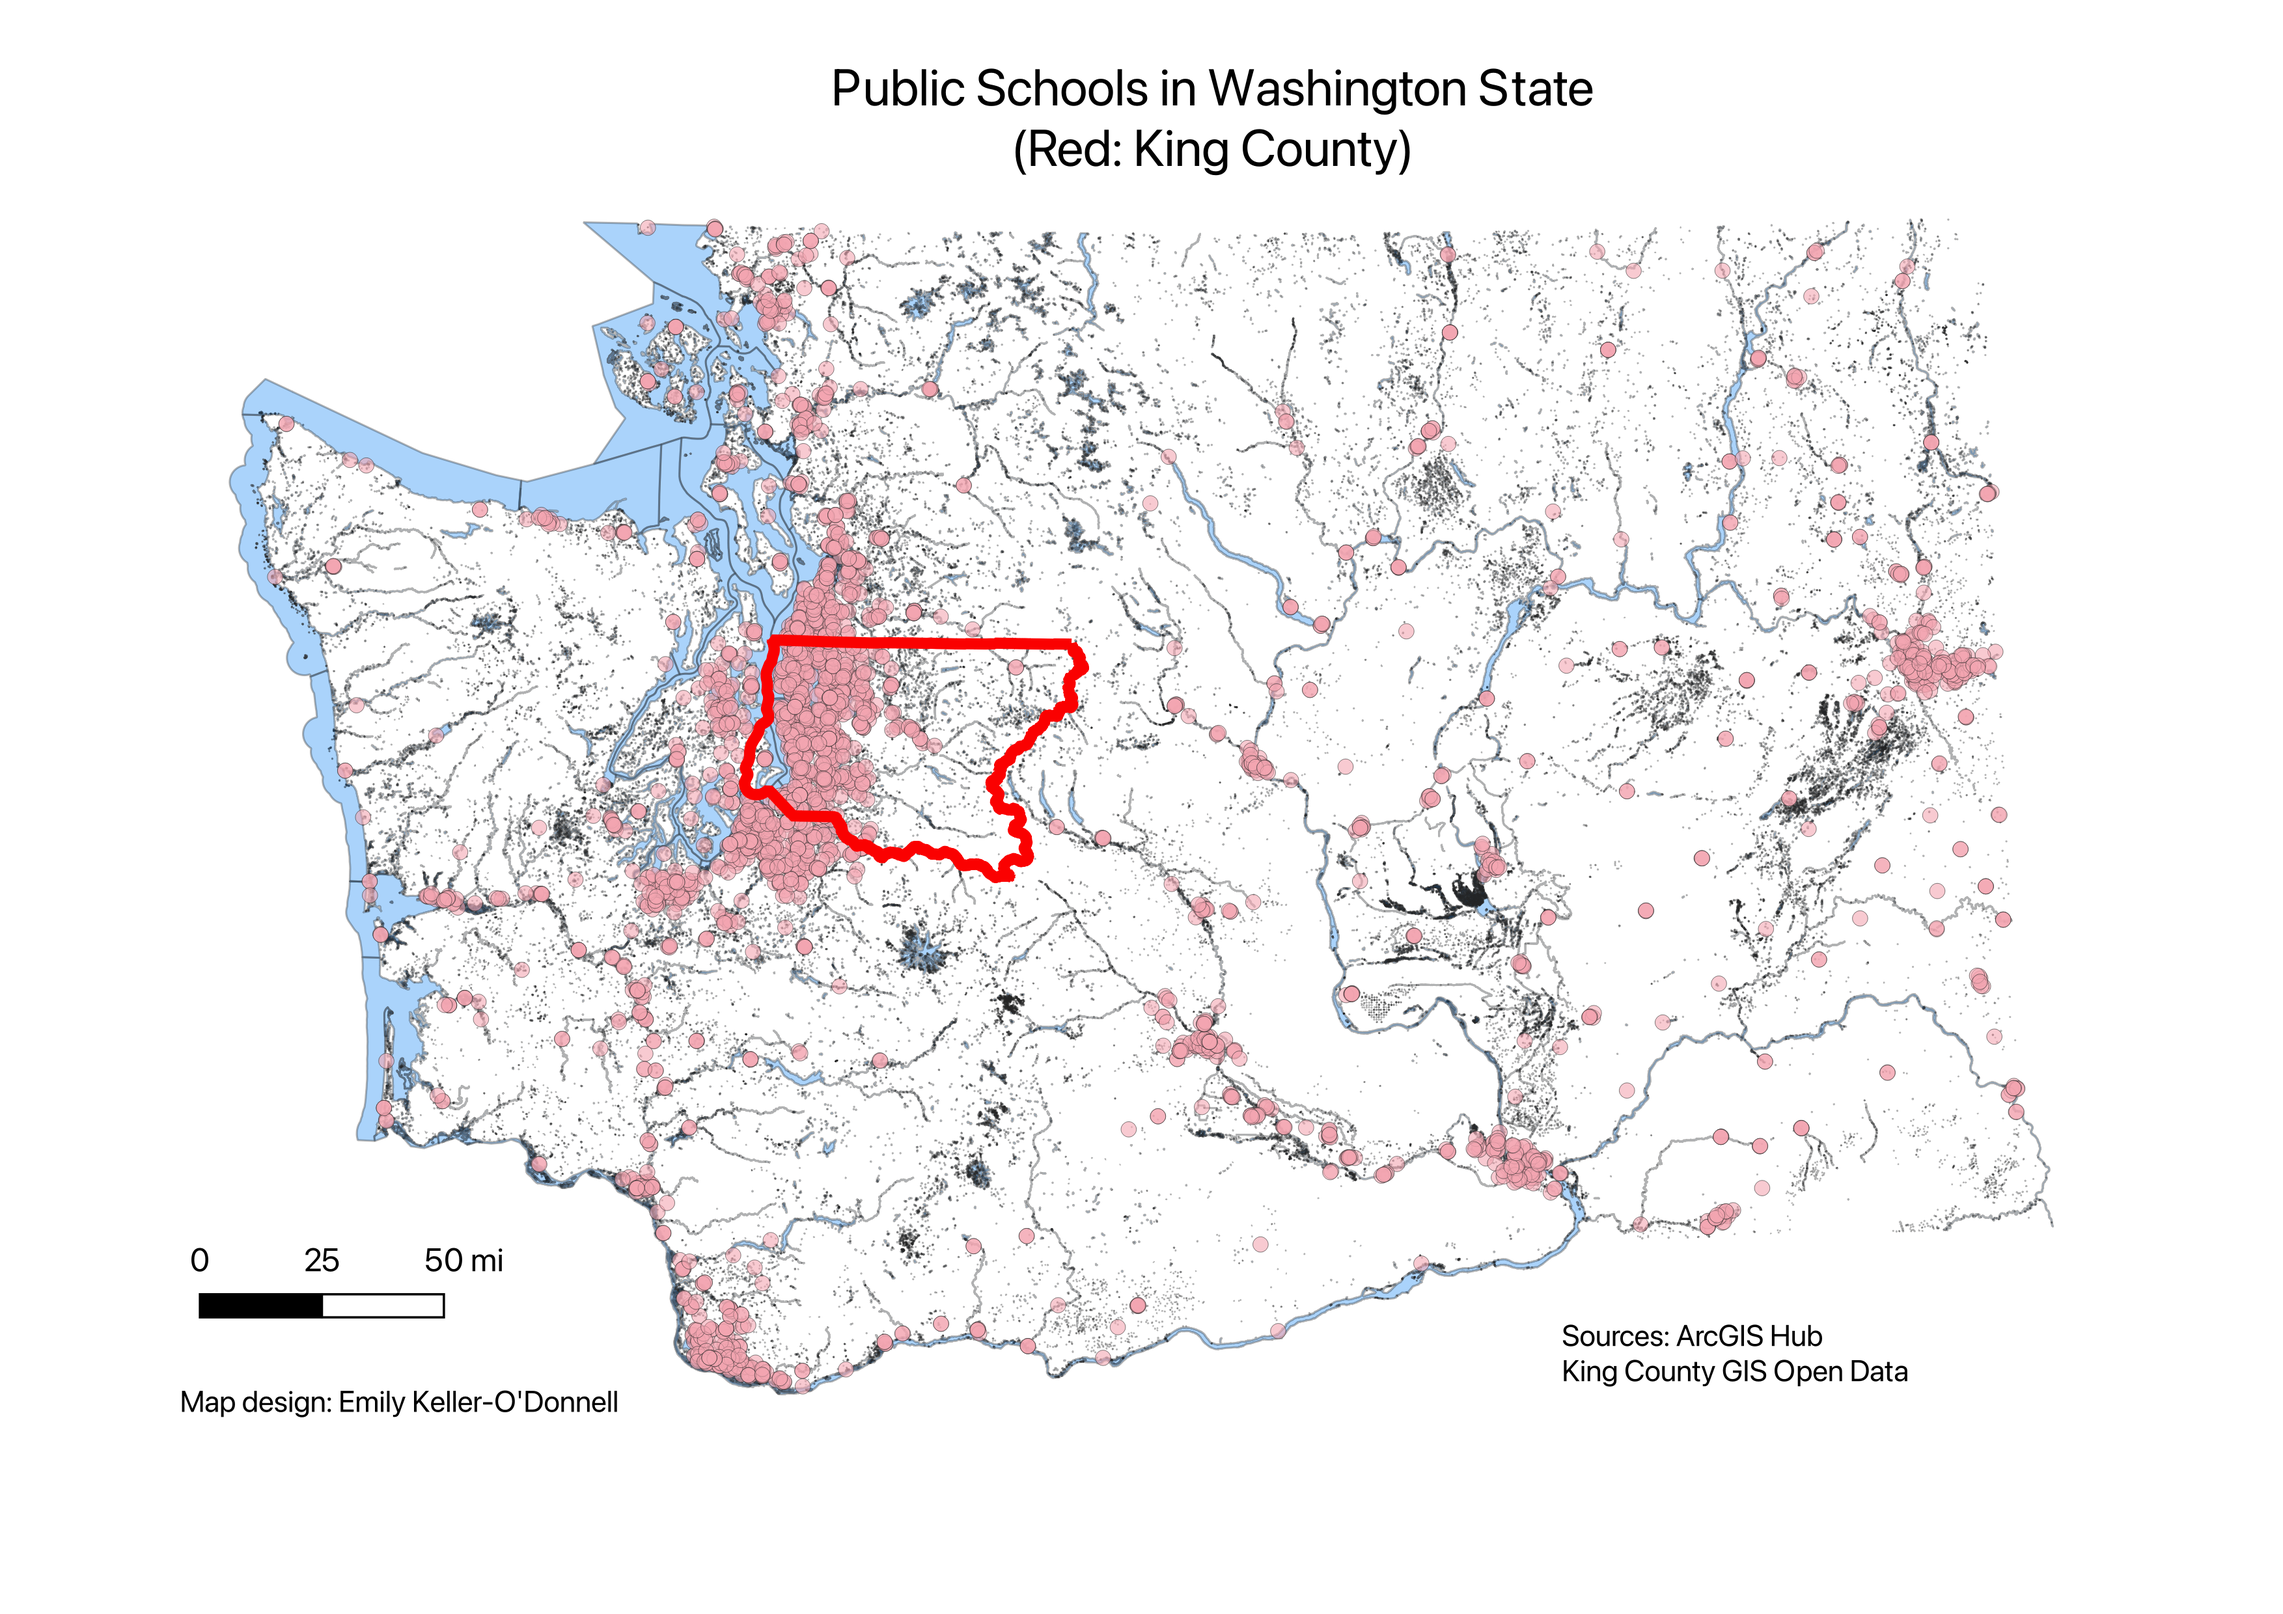
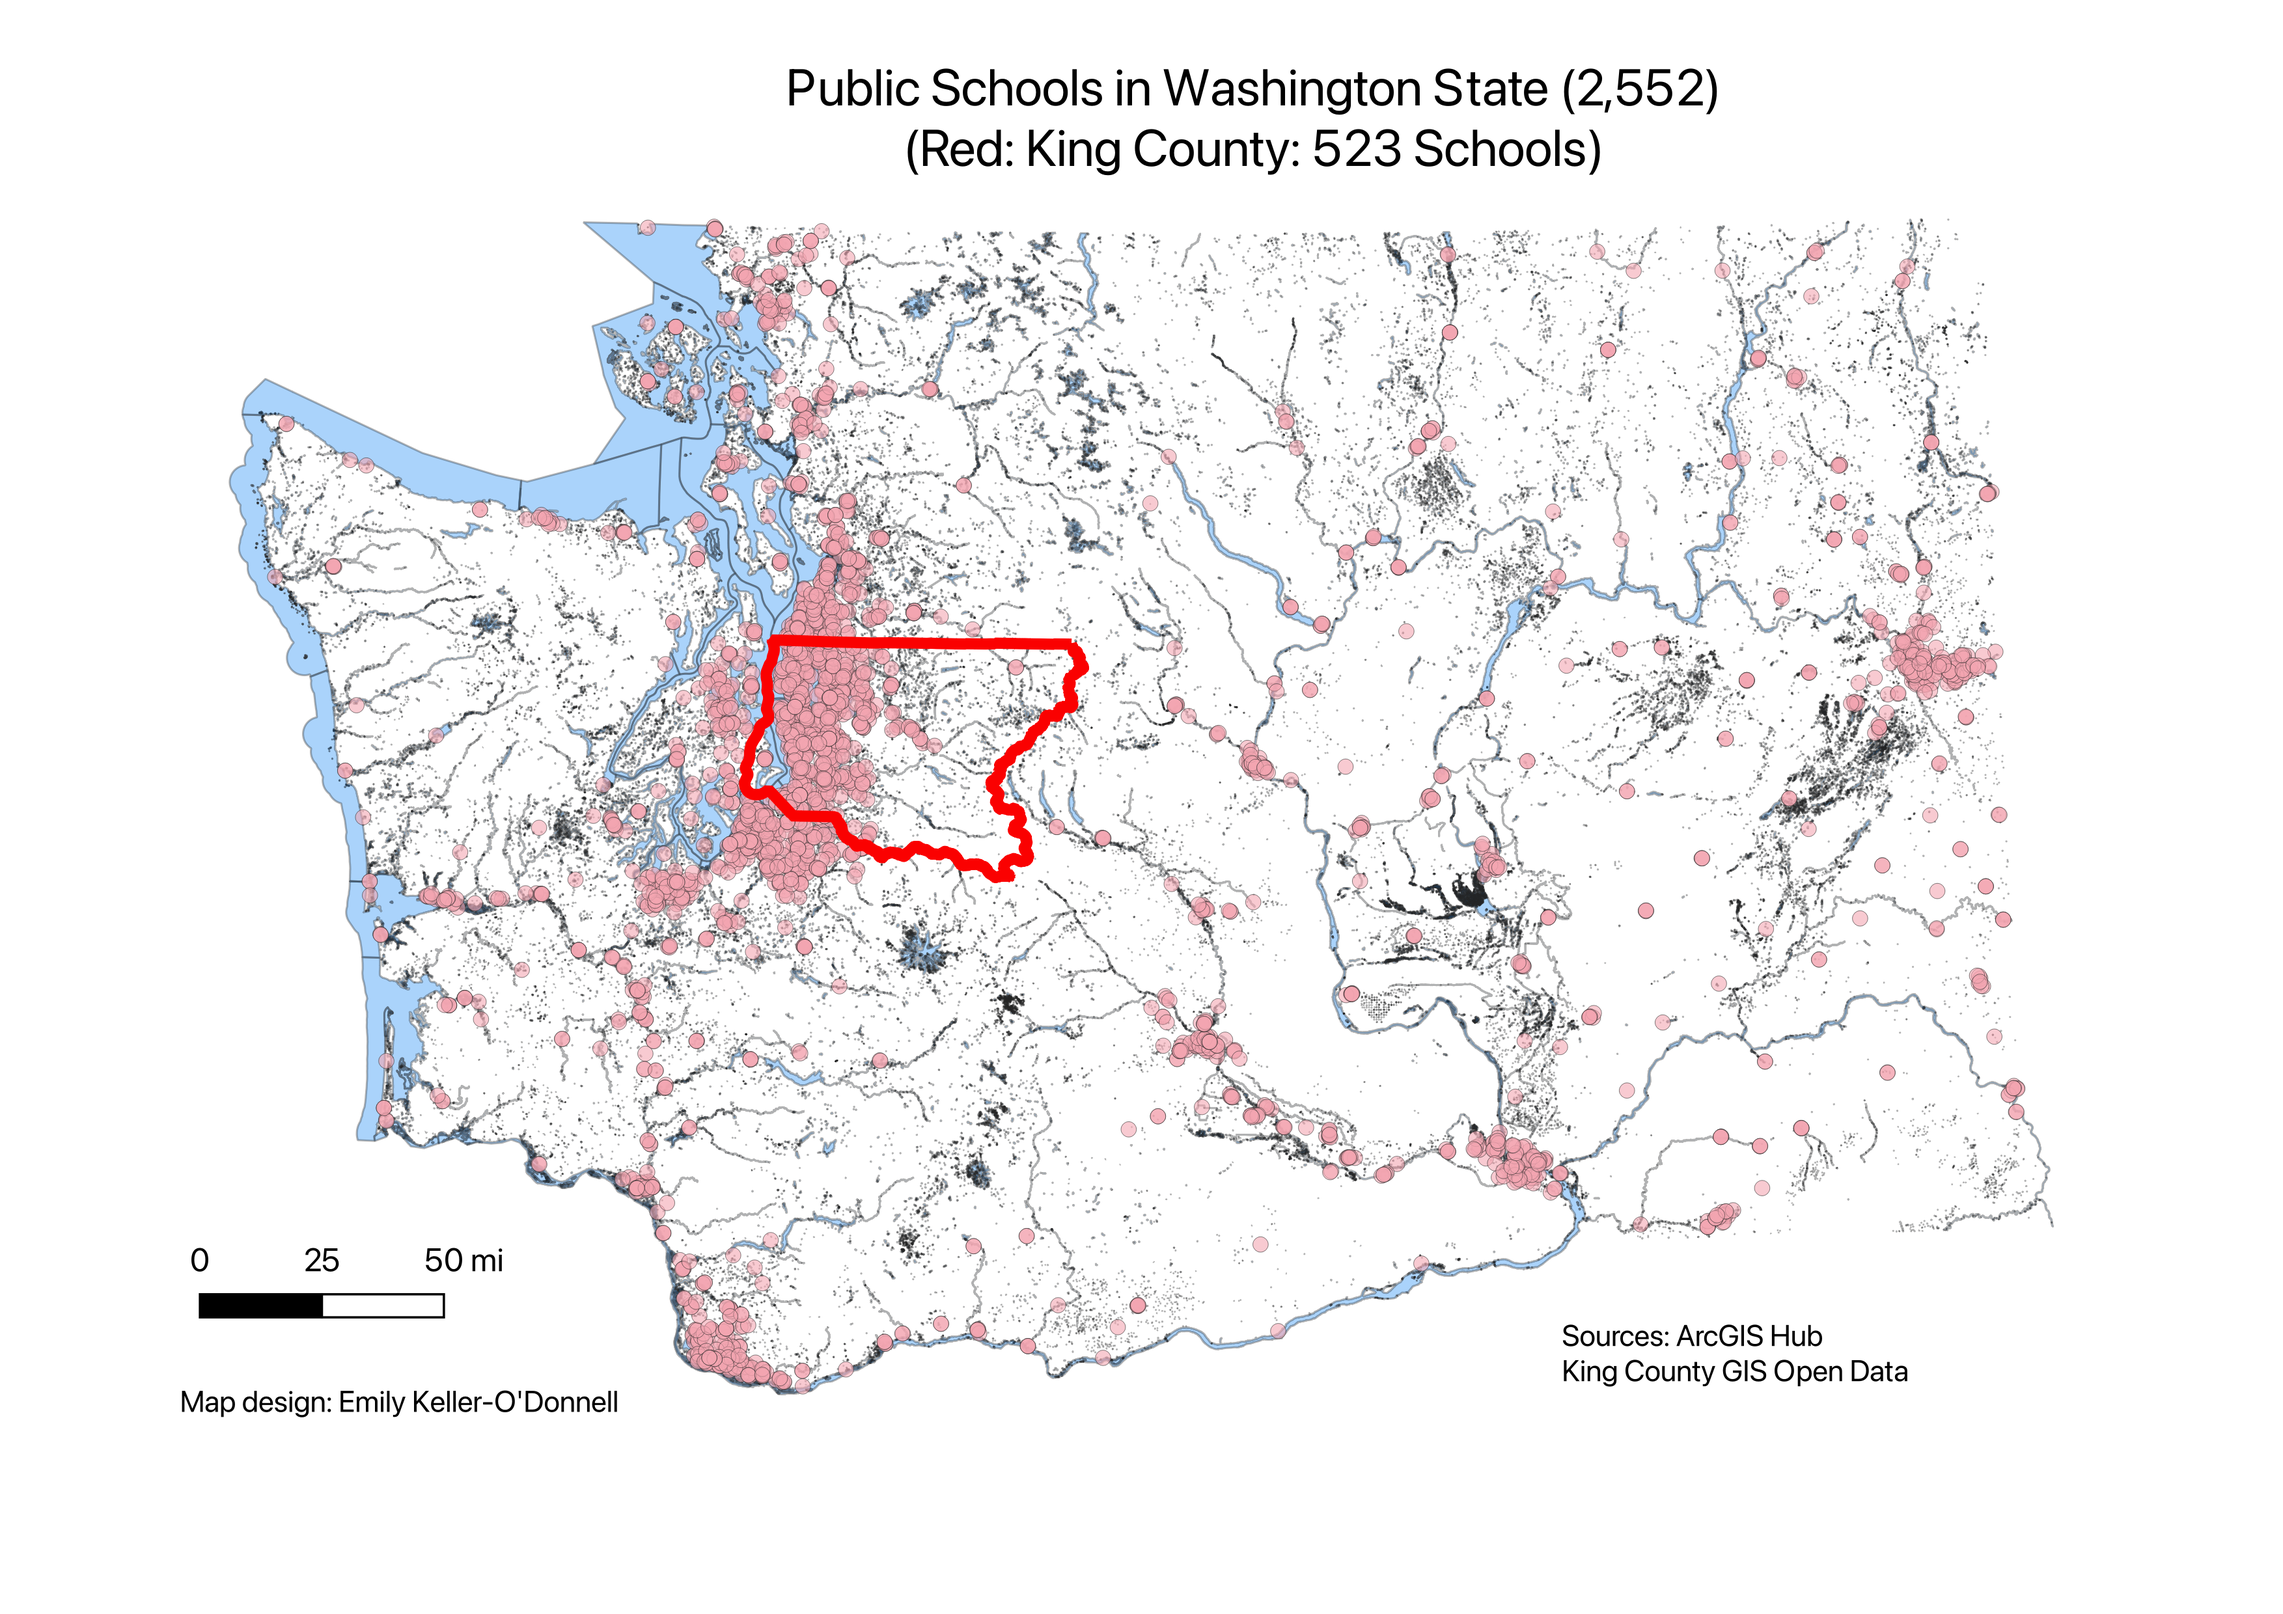
updated index.html

Changed region(s): [[0.3419, 0.031, 0.7459, 0.1242]]

diff --git a/index.html b/index.html
@@ -86,11 +86,15 @@
   <p>As the start of the upcoming school year approaches, many students in Washington State will be attending schools that are known to be unsafe in an earthquake. Older schools, particularly those built before the 1970s, face the highest risk of collapse in an earthquake. The state is vulnerable to multiple fault lines, including the <a href="https://pnsn.org/outreach/earthquakesources/csz">Cascadia Subduction Zone</a> located in the Pacific Ocean, which can produce megathrust earthquakes of 9.0 magnitude or higher, and the  <a href="https://www.seattle.gov/emergency-management/hazards/earthquake">Seattle Fault</a>, which can produce earthquakes of up to 7.5 magnitude in the center of the city. Both fault lines are known to produce earthquakes hundreds of years apart.
   <p>While <a href="https://efkodon.github.io/schools_data_access/">multiple efforts</a> are underway to better track, upgrade and replace high risk school buildings statewide, the process will take years and is <a href="https://fortress.wa.gov/dnr/geologydata/school_seismic_safety/phase2/School_Seismic_Safety_Project_2021_Final_Report_DNR.pdf">expected</a> to cost billions of dollars to complete. As parents make final decisions about where to send their children for the start of the school year, state data about the upgrade status of individual schools is often complex to obtain, and in some cases contradictory between different government entities.</p>
   <div class="image">
-    <img src="images/wa_schools.png" width="800" height="auto" alt="Impact zones for Seattle zone earthquake overlapping with school locations on a map of Washington State">
+    <img src="images/wa_schools.png" width="800" height="auto" alt="text">
 </div>
 <p>King County, the most populous county in the state, has 2.2 million people and 523 public schools, which make up 20 percent of all public schools in the state, according to the <a href="https://geo.wa.gov/datasets/23bbd746f9924c149681815cfd2a6300/explore?location=47.208254%2C-120.802250%2C7.00">Washington Geospatial Open Data Portal</a>. The western portion of King County, which has the county's greatest population density, is predicted to experience 6.0-9.0 Modified Mercalli Intensity (MMI), a measurement of local ground shaking that is distinct from earthquake magnitudes that are measured along a fault line, in two scenarios shown below. In a Seattle Fault Zone earthquake, some of these schools face a double threat from an earthquake and possible resulting <a href="https://www.cbsnews.com/news/earthquake-tsunami-seattle-fault-study/">tsunami</a> from Puget Sound and other local waterways. The maps below show the predicted seismic impact zones for the Cascadia Subduction Zone and the Seattle Fault Zone, highlighting King County.<p>
   <div class="image">
-    <img src="images/seattle_fault_schools.png" width="800" height="auto" alt="Impact zones for Seattle zone earthquake overlapping with school locations on a map of Washington State">
+    <img src="images/seattle_fault_schools.png" width="800" height="auto" alt="text">
+</div>
+<br>
+<div class="image">
+  <img src="images/cascadia_fault_schools.png" width="800" height="auto" alt="Impact zones for Seattle zone earthquake overlapping with school locations on a map of Washington State">
 </div>
   <p>While seismic assessments and upgrades move forward, obtaining current information about individual schools presents a complex challenge to parents.
     There are 2,552 public schools
